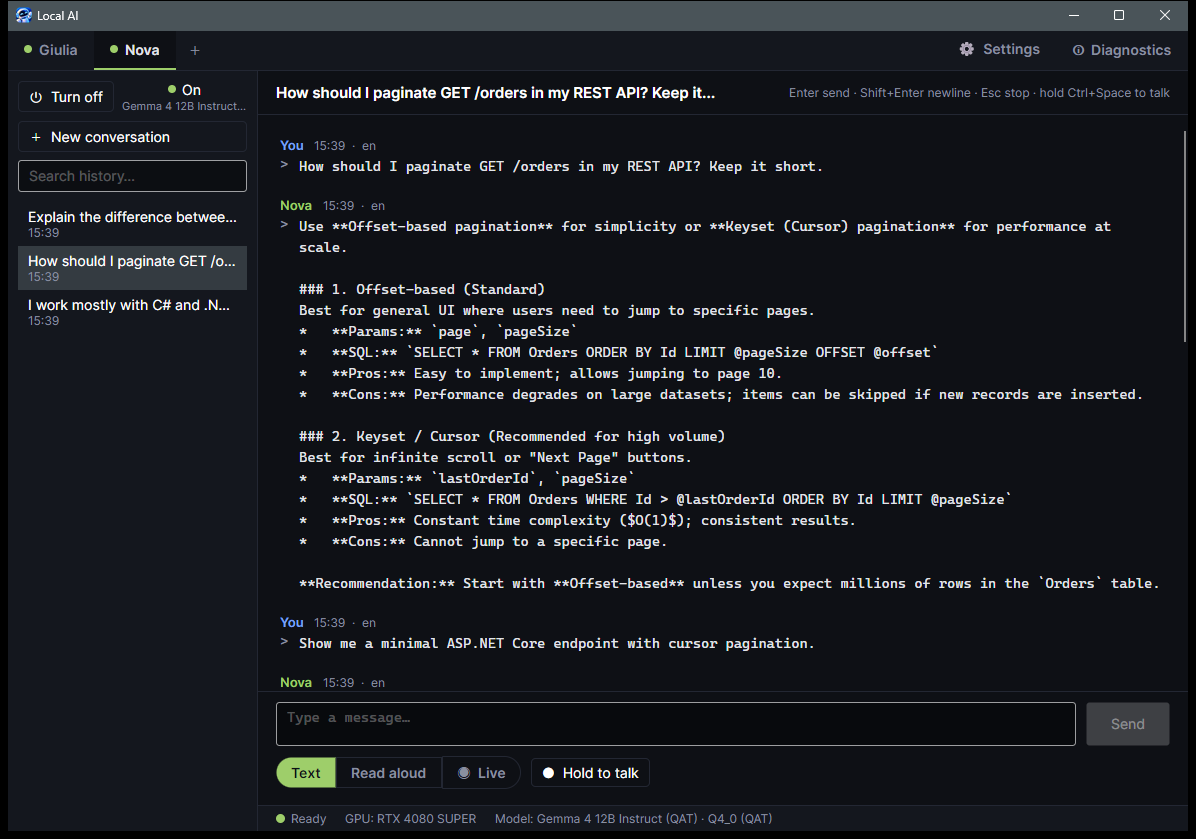
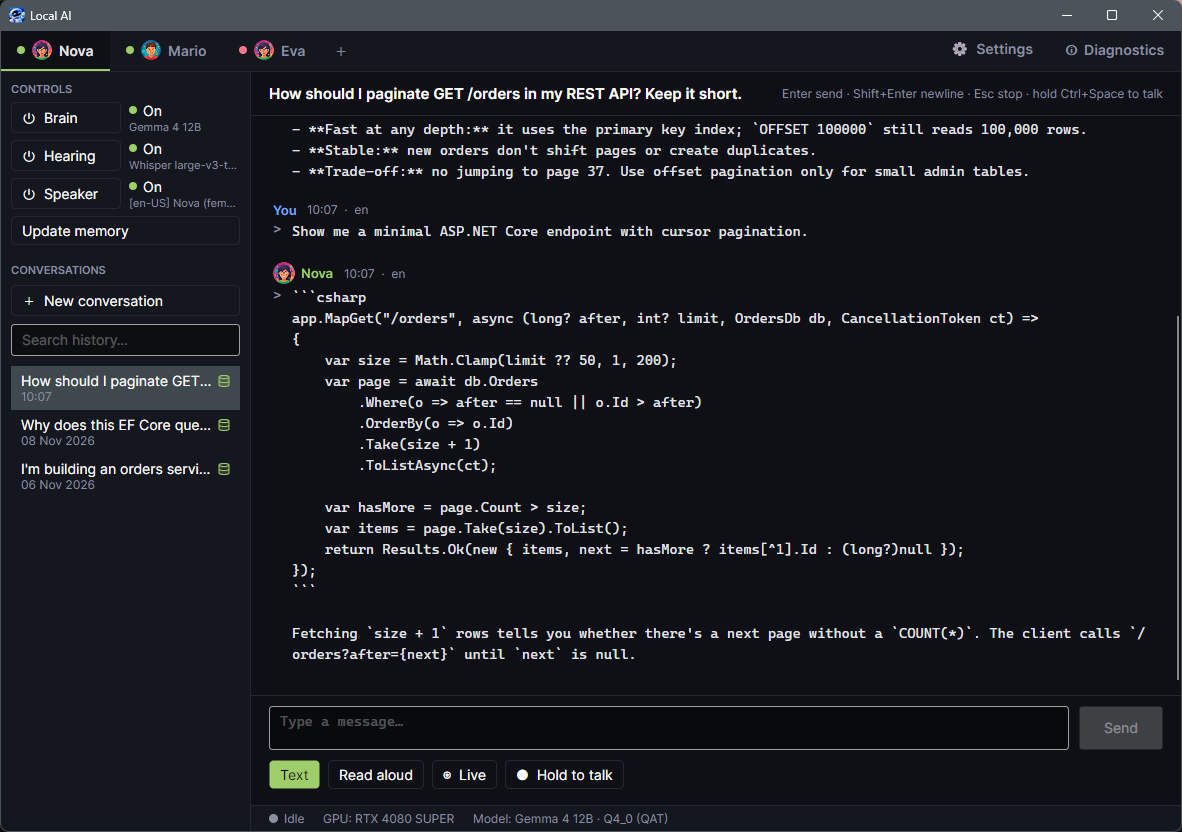
docs: update screenshorts and readme

Changed region(s): [[0.0, 0.0, 1.0, 1.0], [0.7614, 0.75, 0.9442, 0.7812], [0.9746, 0.375, 1.0, 0.4375]]

diff --git a/README.md b/README.md
@@ -17,7 +17,7 @@
 </p>
 
 <p align="center">
-  <img src="docs/screenshots/chat.png" alt="Chatting with Nova, one of two assistants in the tabs at the top" width="900">
+  <img src="docs/screenshots/chat.png" alt="Chatting with Nova, one of three assistants in the tabs at the top" width="900">
 </p>
 
 ## Features
@@ -25,34 +25,38 @@
 - **Your own assistants:** each has a name, personality, native language, language model, voice, conversations and
   memory. One tab per assistant; **＋** adds one.
 - **Change them anytime** (Settings › Assistants): the personality, the language model and its context, the voice
-  with its speed and pitch, and the behavior (creativity, reply length, thinking).
+  with its speed and pitch, and the behavior (creativity, reply length, thinking). The assistant's picture follows its
+  voice.
 - **Controls:** **Brain** loads the language model and memory search, **Hearing** the speech recognition, **Speaker**
   the voice. Nothing loads until you turn the Brain on.
 - **Any open model:** recommended models for your GPU, or any GGUF model on Hugging Face (`OFFICIAL` marks the
   maker's own). Each quantization says whether it fits your GPU.
+- **Thinking:** models that reason can think before answering. The thinking appears folded above the reply and is
+  never spoken or saved to the notes.
 - **One language:** an assistant always replies in its native language, whatever you write or paste.
 - **Learns your documents:** put `.md`/`.txt` files in its `learn` folder (subfolders too) and click **Learn**.
 - **Memory you can read:** Markdown notes, ready for Obsidian. Click **Update memory**, or turn on auto update to
   have it run when idle.
+- **Searchable history:** search every conversation, and rename or delete any of them.
 - **Always at hand:** runs in the tray, with a global shortcut per assistant for voice.
 - **Offline and portable:** everything stays in the app folder. The Internet is used only to download models.
 
 <table>
   <tr>
     <td width="50%"><img src="docs/screenshots/create-assistant.png" alt="The Add new assistant dialog"></td>
-    <td width="50%"><img src="docs/screenshots/memory.png" alt="What the assistant remembers about you"></td>
+    <td width="50%"><img src="docs/screenshots/settings-assistants.png" alt="Settings › Assistants"></td>
   </tr>
   <tr>
-    <td align="center">Add an assistant: personality, language, model and voice</td>
-    <td align="center">What it remembers about you, as Markdown notes</td>
+    <td align="center">Add an assistant: personality, model, behavior, language and voice</td>
+    <td align="center">Change it anytime: behavior, personality, model and voice</td>
   </tr>
   <tr>
+    <td><img src="docs/screenshots/memory.png" alt="What the assistant remembers about you and has learned"></td>
     <td><img src="docs/screenshots/settings-models.png" alt="Settings › Models"></td>
-    <td><img src="docs/screenshots/settings-audio.png" alt="Settings › Audio"></td>
   </tr>
   <tr>
+    <td align="center">What it remembers about you and the documents it learned</td>
     <td align="center">Models downloaded and managed in the app</td>
-    <td align="center">Audio devices: the system default, or one you pick</td>
   </tr>
 </table>
 
@@ -66,9 +70,15 @@
 
 - **Hold to talk** (or **Ctrl+Space**) in Text and Read aloud modes. **Esc** or **Stop** ends a reply.
 - **Natural turns in Live:** it waits when you sound unfinished, says *"mm-hmm"* in your pauses and fills slow replies
-  with *"let me see..."*. Set these up in Settings › General.
+  with *"let me see..."*. Set these up, and choose which modes appear, in Settings › General.
 - **Read selection** (off by default): in Live mode, select text in any app while you talk. The text goes with your
   question, e.g. *"why does this fail?"*.
+- **Echo cancellation:** interrupt the assistant by talking, even with speakers instead of headphones.
+
+<p align="center">
+  <img src="docs/screenshots/settings-audio.png" alt="Settings › Audio: microphone, speaker and echo cancellation" width="600"><br>
+  <sub>Audio devices: the system default, or one you pick</sub>
+</p>
 
 ## Memory
 
@@ -76,16 +86,19 @@ Each assistant keeps Markdown notes in its own folder:
 
 ```
 local-ai/nova/
-  nova-identity.md     who the assistant is (edit it to change how it acts)
+  nova-identity.md     who the assistant is: personality, model and voice (edit it to change how it acts)
   nova-profile.md      what it knows about you
   conversations/...    one note per conversation
+  learn/...            your documents for it to learn (.md, .txt, subfolders too)
 ```
 
 - **Recall (RAG):** before each reply it searches its notes and learned documents, by meaning and by words.
 - **Your edits win:** text you change in the notes is never overwritten.
 - **Only when you ask:** **Update memory** writes the notes. **Auto update memory** (off by default) does the same after
   10 idle minutes, and stops as soon as you talk.
-- **Where:** in the app folder, or in your Obsidian vault (Settings › Memory).
+- **See it in the app:** Settings › Assistants shows what each assistant remembers about you and the documents it
+  learned.
+- **Where:** in the app folder, or in your Obsidian vault (Settings › Memory), in the language you choose.
 
 ## Getting started
 
@@ -105,14 +118,20 @@ publish\LocalAI\LocalAI.exe
 
 Closing the window keeps the app in the tray; **Exit** in the tray menu quits.
 
-## Privacy
+## Principles
 
-- Conversations, voice and memories never leave your PC.
-- Everything the app creates is in `data\` next to the executable. Delete the folder to remove it all. The only
-  exception is an Obsidian vault you choose for the notes.
-- Logs never record what you say, type or select.
-- Windows itself keeps a few records of any program you run, such as tray settings, microphone history and Prefetch.
-  They contain only the path and timestamps.
+- **Private:** conversations, voice and memories never leave your PC. No accounts, no cloud APIs, no telemetry. The
+  Internet is used only to download models, and only when you click.
+- **Portable:** everything the app creates is in `data\` next to the executable. Copy the folder to install it, delete it
+  to remove everything. The only exception is an Obsidian vault you choose for the notes.
+- **Your memory is yours:** plain Markdown notes you can read, edit or delete. Your edits always win, and the search
+  index can be rebuilt from the files.
+- **Nothing behind your back:** models load only when you turn the Brain on, and the memory is updated only when you
+  ask (or turn on auto update).
+- **Quiet logs:** logs record what the app did, never what you say, type or select.
+
+Windows itself keeps a few records of any program you run, such as tray settings, microphone history and Prefetch.
+They contain only the path and timestamps.
 
 ## Built with
 
